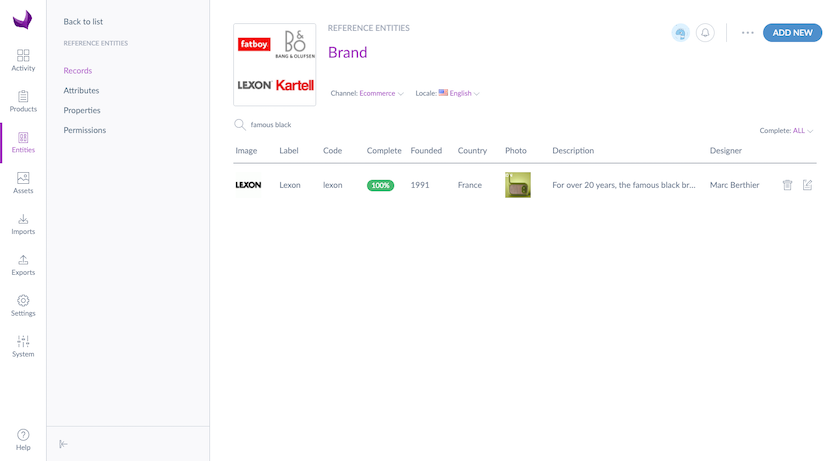
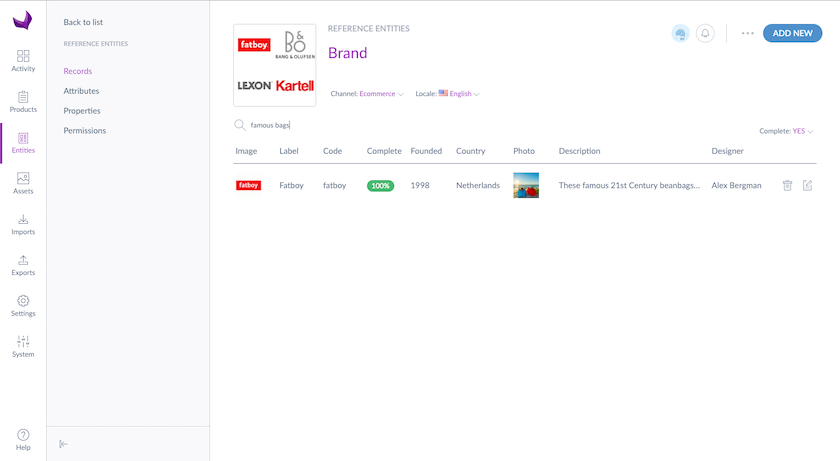
Fix Delphine comments

diff --git a/content/md/products-super-power/enrich-your-reference-entity-records.md b/content/md/products-super-power/enrich-your-reference-entity-records.md
@@ -17,13 +17,15 @@ To add a new brand to the reference entity `Brand`:
 1. Go to your `Brand` entity (you are automatically on the records grid)
 1. Then click on the `Add new` button, choose a label for the record (the code is automatically generated but you can change it if needed).
 
+![Create a record](../img/Records_creation.png)
+
 ::: tips
 If you have several records to add, you can stay in the creation pop-in to add quickly as many records as needed:
 1. Input the first record label
 1. Tick `Create another record`
-1. Press "Enter"
+1. Press `Enter`
 1. Add the label for each record
-1. Once you've done, press "Esc" or "Echap"   
+1. Once you've done, press `Esc` or `Echap`   
 :::
 
 ::: info
@@ -32,6 +34,8 @@ Note that we defined a limitation of 1 million records per reference entity to g
 
 ## Display records
 To see the records of the reference entity, click on the `Records` tab in the left menu. You will see the records grid, where all the records of the entity are listed.
+
+![Records grid](../img/Records_grid.png)
 
 ### The records grid
 The records grid is quite different than the products' one. Thereafter are the novelties of this grid:
@@ -57,7 +61,7 @@ For example, if you search for the word *« famous »*, all the records contai
 ![Search for records with a keyword](../img/Records_Search_1_word.png)
 
 And we can go further.
-If you search for *"famous"* and *"black"*,then only the record containing both *"famous"* and *"black"* words will be displayed.
+If you search for *"famous"* and *"bags"*, then only the record containing both *"famous"* and *"bags"* words will be displayed.
 
 ![Search for records with several keywords](../img/Records_Search_2_words.png)
 
@@ -65,8 +69,10 @@ If you search for *"famous"* and *"black"*,then only the record containing both 
 
 You can also filter on completeness in order to see the records that are complete/incomplete, or choose to see all the records, no matter their completeness.
 
+![Records filter on completeness](../img/Records_filter_completeness.png)
+
 ::: tips
-To know how to define the completeness on each attribute, please take a look at this [article](/articles/manage-reference-entities.html)
+To know how to define the required attributes for the completeness, please take a look at this [article](/articles/manage-reference-entities.html)
 :::
 
 ## Edit a record
@@ -84,13 +90,17 @@ In fact, the Rich text editor offers a large bunch of possibilities!
 ![Records text area](../img/Records_text_area.png)
 
 
-## Follow the records' completeness
+## Follow the records completeness
 
-We also worked on the records completeness. As in the product grid, several indicators show you the status of your completeness and what is missing.
+As in the product grid, we calculate the completeness on records.
+
+::: tips
+To know how to define the required attributes for the completeness, please take a look at this [article](/articles/manage-reference-entities.html)
+:::
+
+In the records grid, several indicators show you the status of your completeness and what is missing.
 - **Yellow bullet points** in front of each missing required attribute, showing that you have to complete this attribute to improve the completeness.
 - The **completeness percentage** in the header of the record informs you of the completeness level.   
-
-*So, what's new?*
 
 The completeness is **automatically calculated** as soon as we enrich a required attribute. It means that the bullet point will disappear as soon as the required attribute is filled, and same for the completeness percentage evolution.
 
@@ -99,7 +109,11 @@ The completeness is **automatically calculated** as soon as we enrich a required
 
 It is also possible to link a record to another one, and it is very simple.
 
-For example, you can link a *brand* (let's say *"Kartell"*) to the record *"Philippe Starck"*, or to several records designers belonging to the *"Designer"* entity.  
+For example, you can link a *Designer* (let's say *"Philippe Starck"*) to the record *"Kartell"*, or to several records brands belonging to the *"Brands"* entity.  
+
+![Create a link between two records](../img/Records_link_entity_1.png)
+![Records link entity](../img/Records_link_entity_2.png)
+
 Please refer to this [article](/articles/manage-reference-entities.html#add-an-attribute) to discover how to do so.
 
 Once you've chosen which entity is linked, you can see a new selector with all the records of the linked entity.
